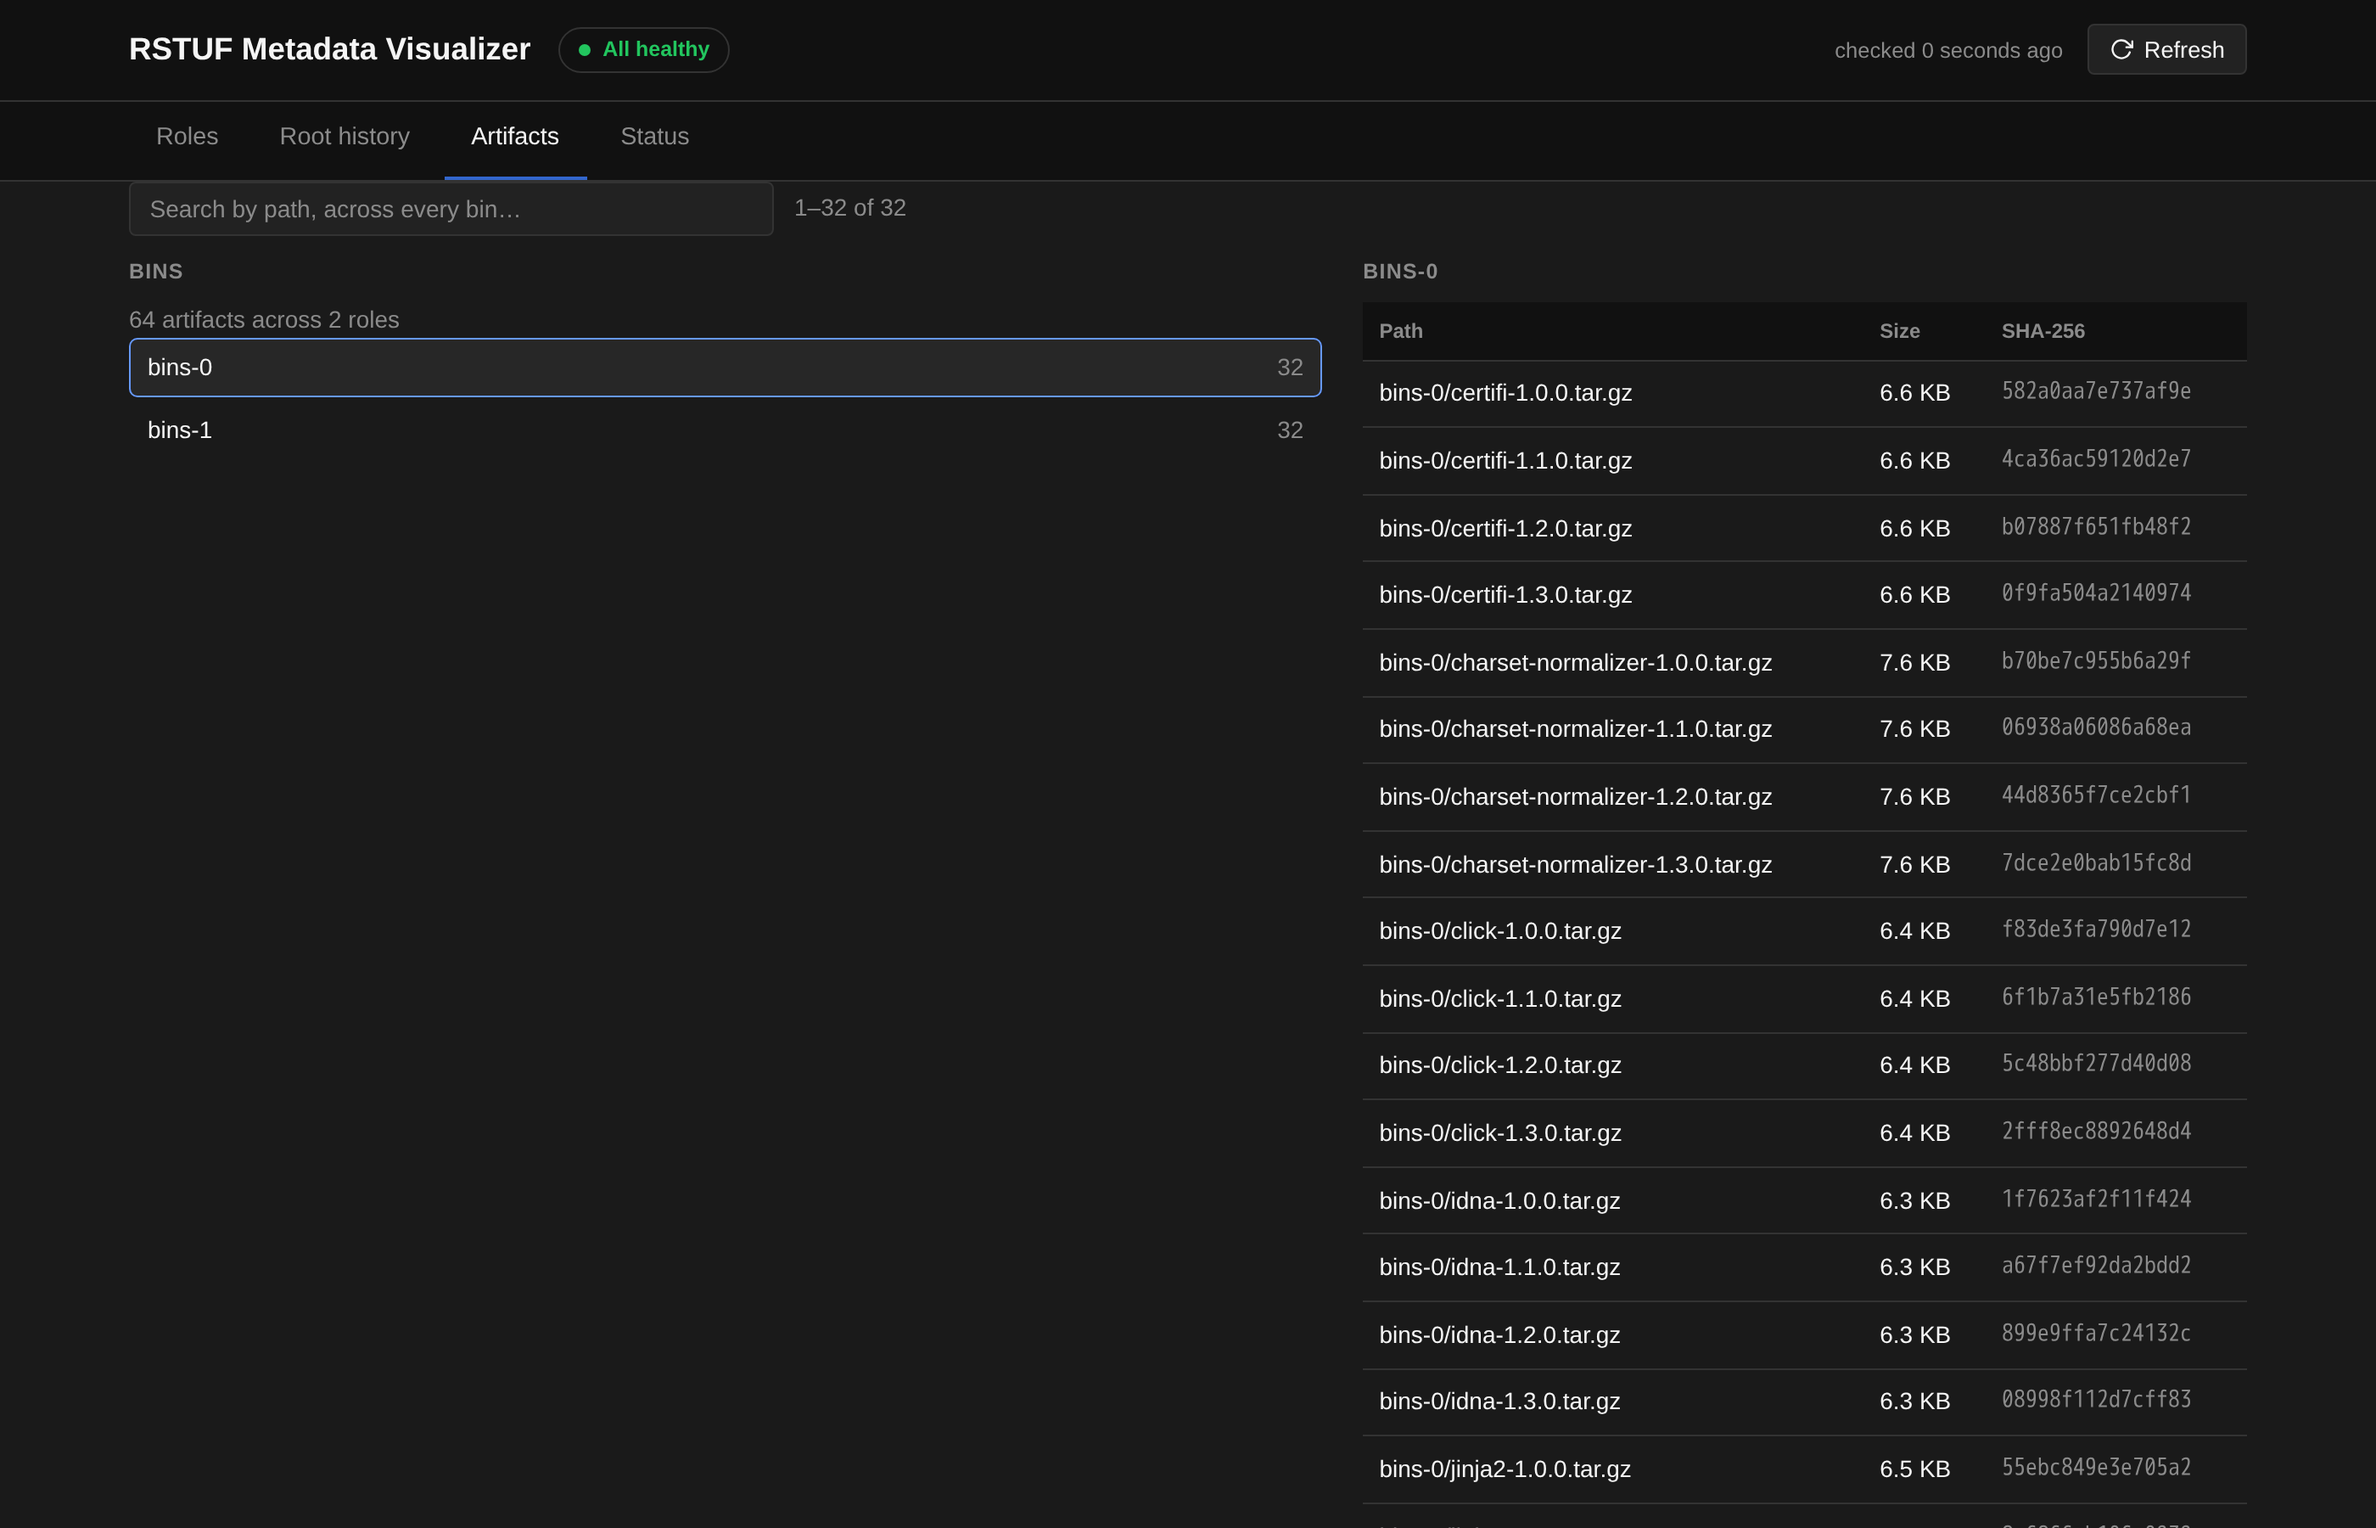
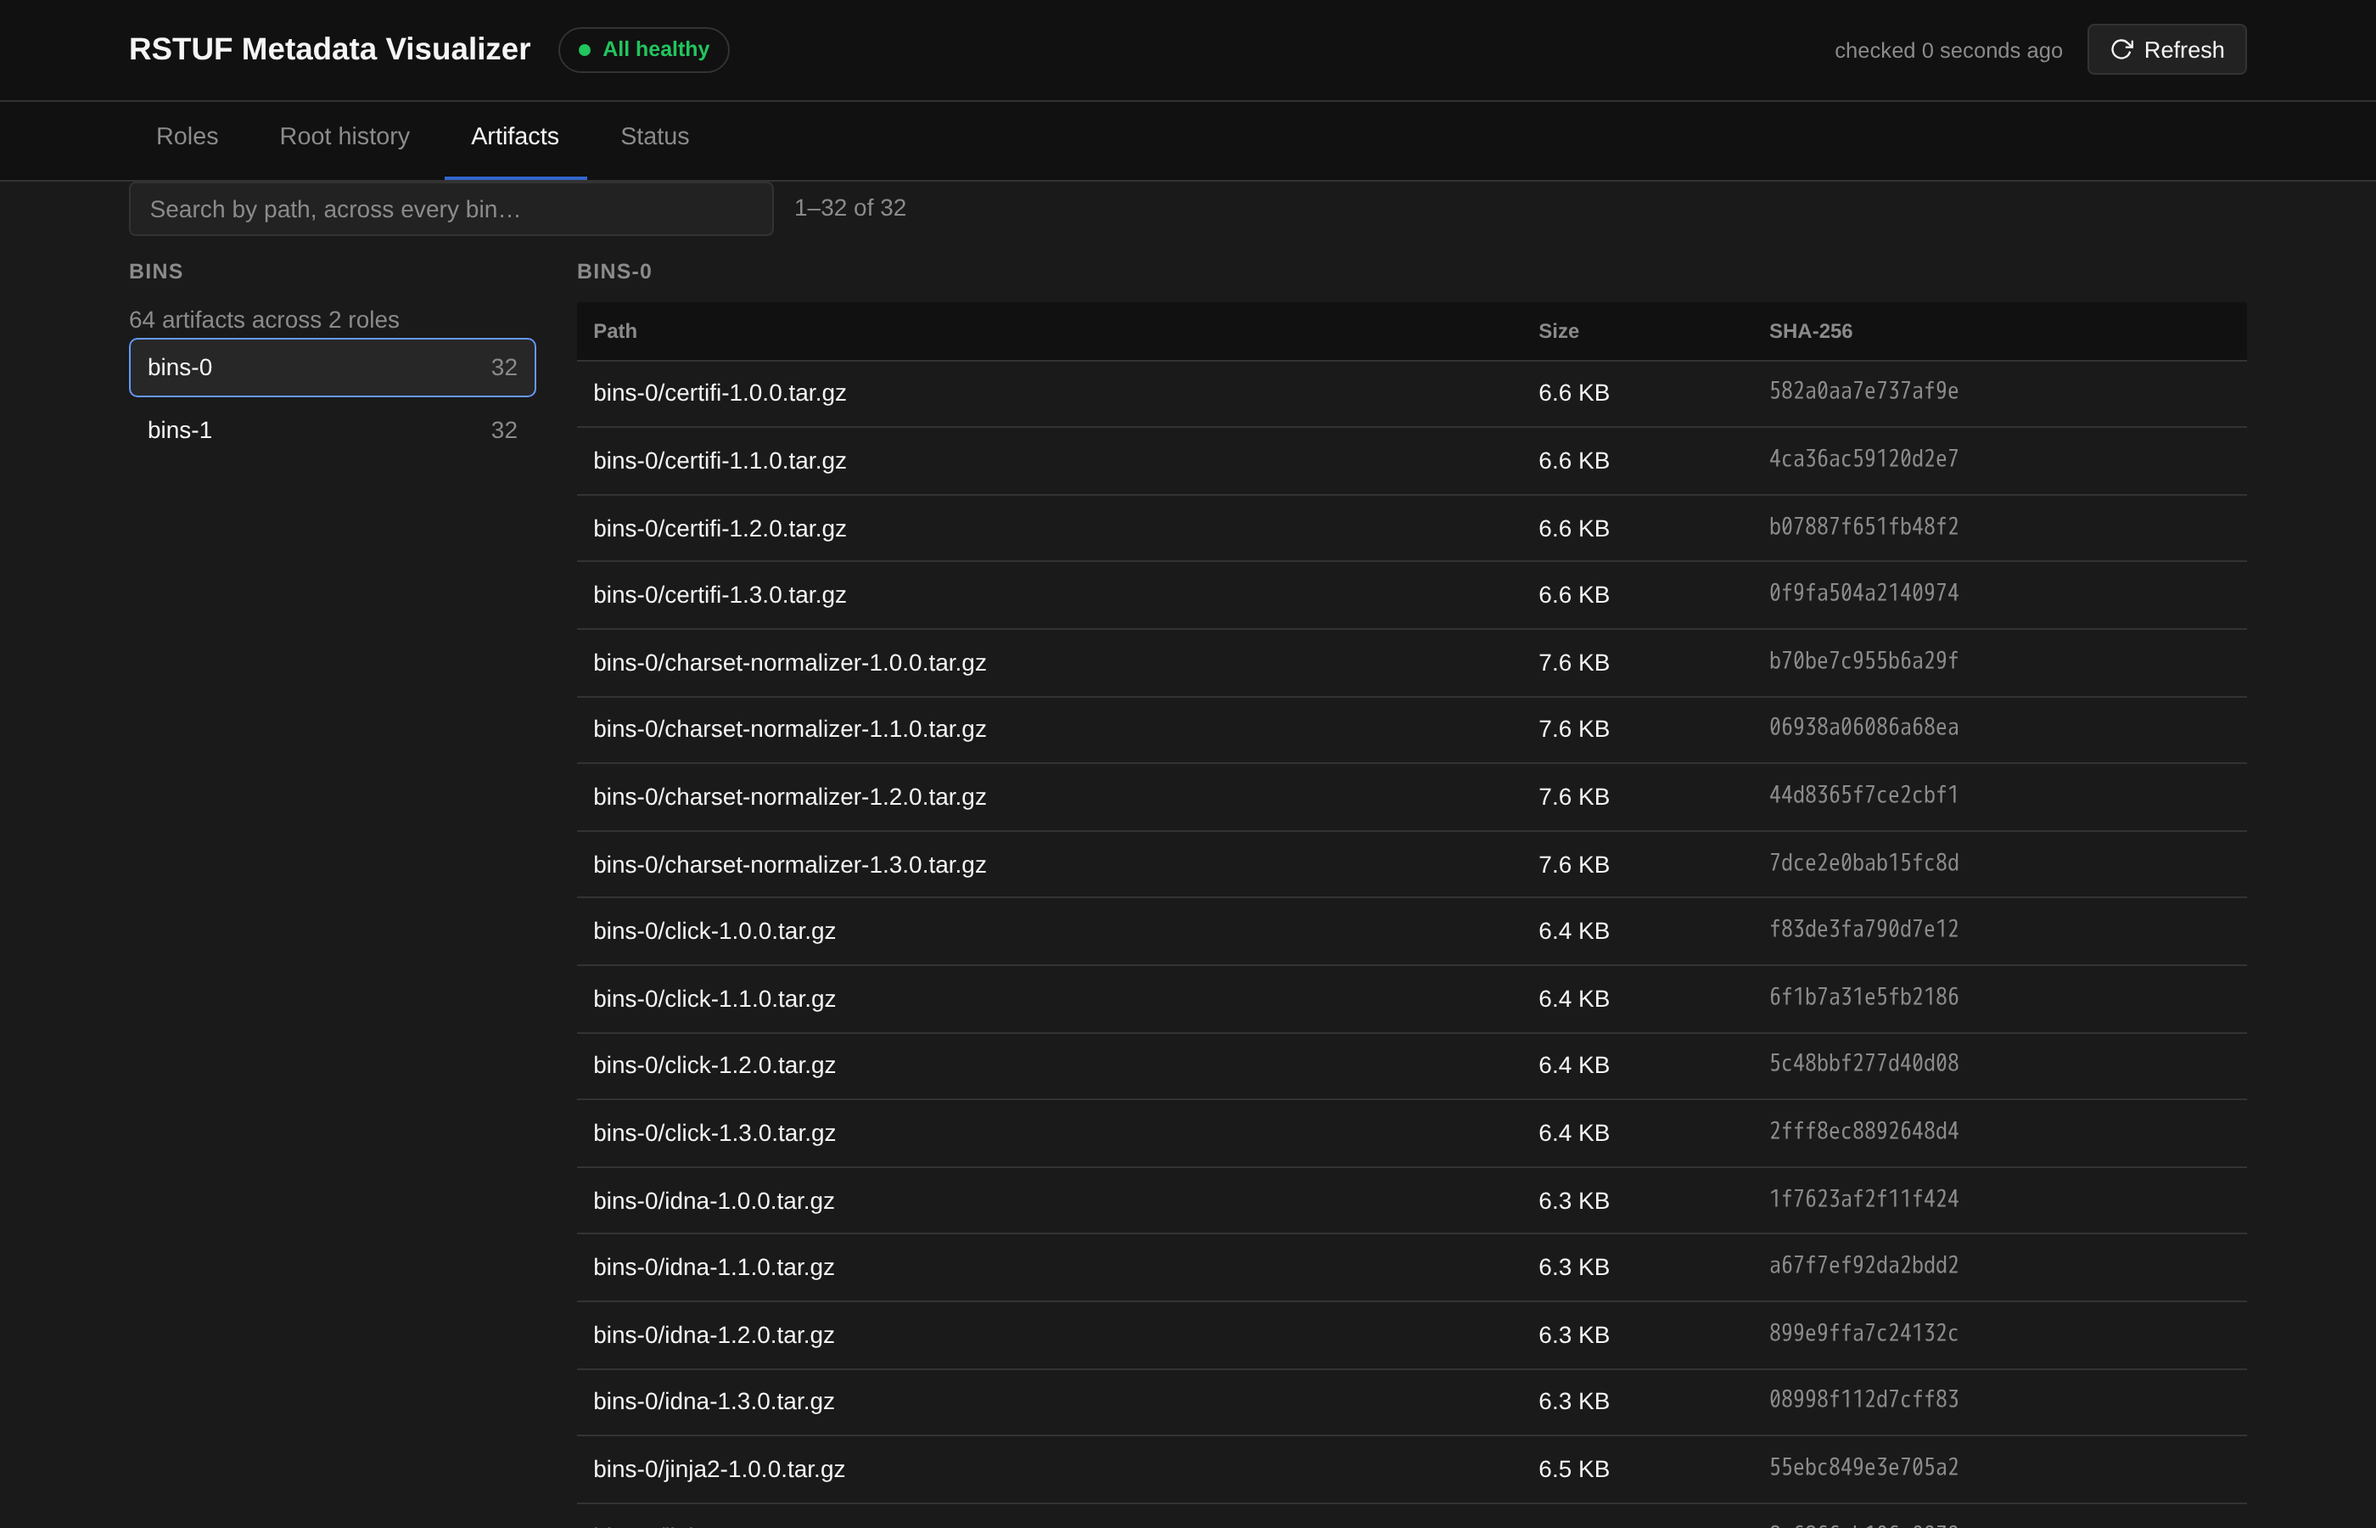
Draw the edges, and give the table the wider column
Two rules left over from the interface that preceded React. The edges
carry the class gedge and the only rule for them named graph__edges, which
matches nothing, so every path fell back to the default of a black fill
and no stroke: curves rendered as solid wedges and any edge between two
nodes in the same column had no area at all and vanished. Two of the four
were invisible in the screenshot shipped at the top of the README.

The artifacts screen asked its index column to be 220px wide with a flex
rule, inside a container that is a grid. A grid ignores an item asking for
its own width, so the index took the 1.35fr track and the table of paths
and hashes took the smaller one. The width belongs on the grid, so it is
declared there.

Pictures retaken. The comment describing where node positions come from
named a file deleted with the old interface.

diff --git a/frontend/src/styles/main.css b/frontend/src/styles/main.css
@@ -156,16 +156,20 @@ main { padding: 1.25rem 0 2.5rem; }
 
 /* ---- delegation graph ----
  *
- * Node positions come from the layout in app.js, so nothing here assumes a
- * shape. These rules only decide how a node looks once it has a place.
+ * Node positions are computed in pages/overview/tree.ts, so nothing here
+ * assumes a shape. These rules only decide how a node looks once it has a
+ * place.
  */
 .tree {
   border: 1px solid var(--border); border-radius: 4px; padding: 0.5rem;
   overflow: auto;
 }
-.graph { display: block; max-width: 100%; height: auto; }
+.tree svg { display: block; max-width: 100%; height: auto; }
 
-.graph__edges path {
+/* A path with no rule at all is filled black and drawn with no stroke, so a
+   curve becomes a wedge and a straight line disappears. Both were happening.
+*/
+.gedge {
   fill: none; stroke: var(--border); stroke-width: 1.5;
 }
 
@@ -274,8 +278,13 @@ input[type="search"]::placeholder { color: var(--muted); }
 /* --- added with the React interface ------------------------------------ */
 
 /* The bin list beside the artifact table. Narrow on purpose: it is an index,
-   and the table beside it is what a reader came for. */
-.col--narrow { flex: 0 0 220px; }
+   and the table beside it is what a reader came for. Declared on the grid
+   rather than on the column, because a grid ignores an item asking for its
+   own width. */
+.split--index { grid-template-columns: 240px 1fr; }
+@media (max-width: 1000px) {
+  .split--index { grid-template-columns: 1fr; }
+}
 
 .bins { list-style: none; margin: 0; padding: 0; max-height: 60vh;
         overflow-y: auto; }

diff --git a/frontend/src/pages/artifacts/components/ArtifactsPage.tsx b/frontend/src/pages/artifacts/components/ArtifactsPage.tsx
@@ -92,8 +92,8 @@ export function ArtifactsPage() {
         </Banner>
       )}
 
-      <div className="split">
-        <div className="col col--narrow">
+      <div className="split split--index">
+        <div className="col">
           <h2 className="section-title">Bins</h2>
           <BinList
             bins={bins.data?.bins ?? []}
